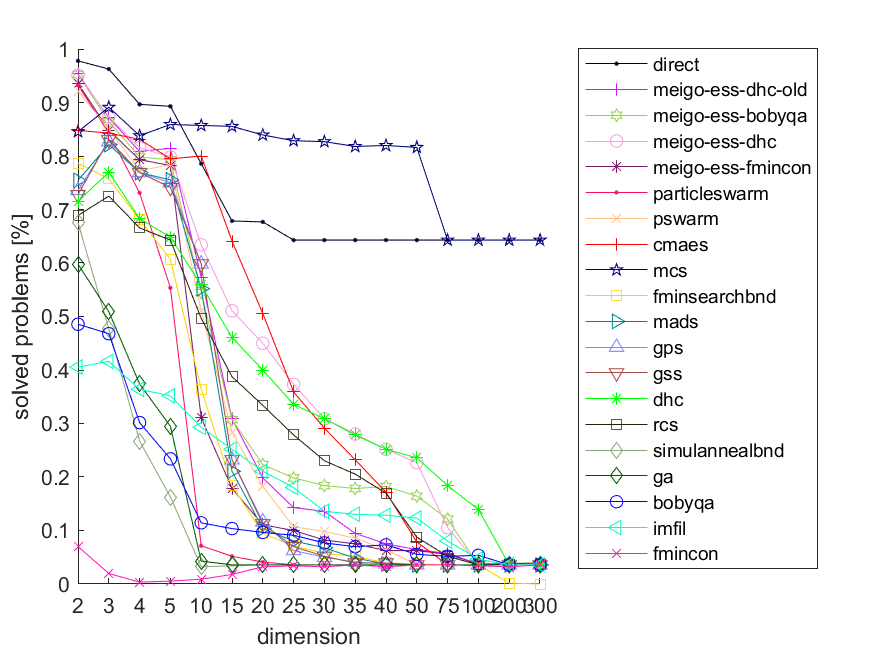
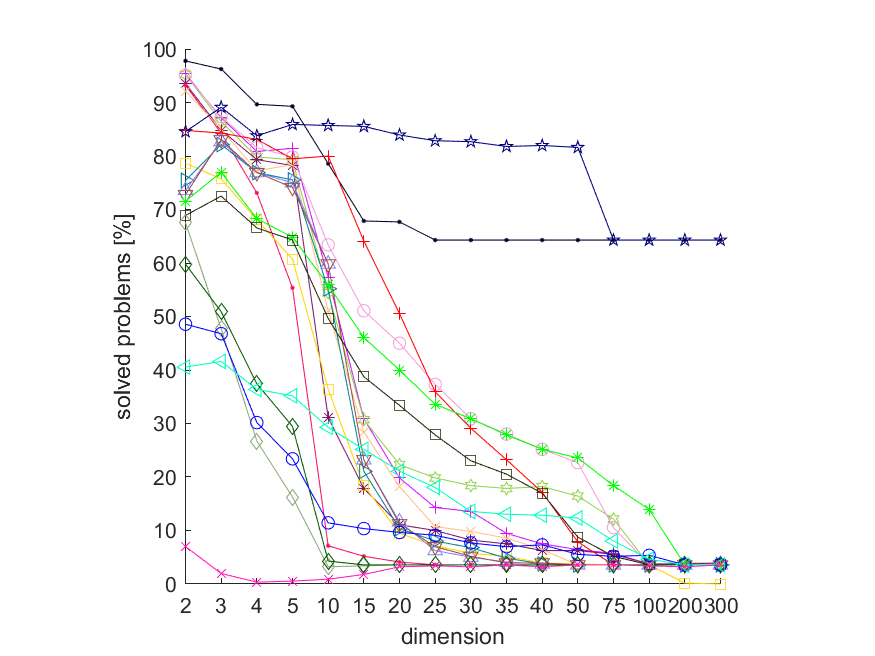
minor image edits

diff --git a/tests_testfunction/evaluateTestResults_noise.m b/tests_testfunction/evaluateTestResults_noise.m
@@ -126,6 +126,7 @@ legendon = 'off';
 % xlabel('function category');
 % ylabel('solved problems [%]');
 % ylim([0,1]);
+% pbaspect([1 1 1]);
 % saveas(fig, [pwd '/images/smooth-convex-unimodal.png']);
 
 nColumns = 5;
@@ -157,6 +158,7 @@ xticklabels({'all','smooth','nonsmooth','convex','nonconvex'});
 xlabel('function category');
 ylabel('solved problems [%]');
 ylim([0,100]);
+pbaspect([1 1 1]);
 saveas(fig, [pwd '/images/smooth-convex-noise.png']); 
 
 % and for all
@@ -190,6 +192,7 @@ xticklabels({'all','smooth','nonsmooth','convex','nonconvex'});
 xlabel('function category');
 ylabel('solved problems [%]');
 ylim([0,100]);
+pbaspect([1 1 1]);
 saveas(fig, [pwd '/images/smooth-convex-all-noise.png']); 
 
 % dims
@@ -219,6 +222,7 @@ xlabel('dimension');
 ylabel('solved problems [%]');
 ylim([0,100]);
 xlim([1,C.nDims]);
+pbaspect([1 1 1]);
 saveas(fig, [pwd '/images/dims-noise.png']); 
 
 % and for all
@@ -248,6 +252,7 @@ xlabel('dimension');
 ylabel('solved problems [%]');
 ylim([0,100]);
 xlim([1,C.nDims]);
+pbaspect([1 1 1]);
 saveas(fig, [pwd '/images/dims-all-noise.png']); 
 
 % time
@@ -276,6 +281,7 @@ xticklabels(C.arr_dims);
 xlabel('dimension');
 ylabel('avg. time [s]');
 xlim([1,C.nDims]);
+pbaspect([1 1 1]);
 saveas(fig, [pwd '/images/time-noise.png']);
 
 % fevals
@@ -305,5 +311,6 @@ xticklabels(C.arr_dims);
 xlabel('dim');
 ylabel('avg. function evaluations');
 xlim([1,C.nDims]);
+pbaspect([1 1 1]);
 saveas(fig, [pwd '/images/fevals-noise.png']);
 

diff --git a/tests_testfunction/evaluateTestResults_multistart.m b/tests_testfunction/evaluateTestResults_multistart.m
@@ -135,6 +135,7 @@ legendon = 'off';
 % xlabel('function category');
 % ylabel('solved problems [%]');
 % ylim([0,1]);
+% pbaspect([1 1 1]);
 % saveas(fig, [pwd '/images/smooth-convex-unimodal.png']);
 
 nColumns = 5;
@@ -166,6 +167,7 @@ xticklabels({'all','smooth','nonsmooth','convex','nonconvex'});
 xlabel('function category');
 ylabel('solved problems [%]');
 ylim([0,100]);
+pbaspect([1 1 1]);
 saveas(fig, [pwd '/images/smooth-convex-lg.png']); 
 
 % and for all
@@ -199,6 +201,7 @@ xticklabels({'all','smooth','nonsmooth','convex','nonconvex'});
 xlabel('function category');
 ylabel('solved problems [%]');
 ylim([0,100]);
+pbaspect([1 1 1]);
 saveas(fig, [pwd '/images/smooth-convex-all-lg.png']); 
 
 % dims
@@ -228,6 +231,7 @@ xlabel('dimension');
 ylabel('solved problems [%]');
 ylim([0,100]);
 xlim([1,C.nDims]);
+pbaspect([1 1 1]);
 saveas(fig, [pwd '/images/dims-lg.png']); 
 
 % and for all
@@ -257,6 +261,7 @@ xlabel('dimension');
 ylabel('solved problems [%]');
 ylim([0,100]);
 xlim([1,C.nDims]);
+pbaspect([1 1 1]);
 saveas(fig, [pwd '/images/dims-all-lg.png']); 
 
 % time
@@ -285,6 +290,7 @@ xticklabels(C.arr_dims);
 xlabel('dimension');
 ylabel('avg. time [s]');
 xlim([1,C.nDims]);
+pbaspect([1 1 1]);
 saveas(fig, [pwd '/images/time-lg.png']);
 
 % fevals
@@ -315,5 +321,6 @@ xticklabels(C.arr_dims);
 xlabel('dim');
 ylabel('avg. function evaluations');
 xlim([1,C.nDims]);
+pbaspect([1 1 1]);
 saveas(fig, [pwd '/images/fevals-lg.png']);
 

diff --git a/tests_testfunction/evaluateTestResults.m b/tests_testfunction/evaluateTestResults.m
@@ -131,6 +131,7 @@ legendon = 'off';
 % xlabel('function category');
 % ylabel('solved problems [%]');
 % ylim([0,1]);
+% pbaspect([1 1 1]);
 % saveas(fig, [pwd '/images/smooth-convex-unimodal.png']);
 
 nColumns = 5;
@@ -162,6 +163,7 @@ xticklabels({'all','smooth','nonsmooth','convex','nonconvex'});
 xlabel('function category');
 ylabel('solved problems [%]');
 ylim([0,100]);
+pbaspect([1 1 1]);
 saveas(fig, [pwd '/images/smooth-convex.png']); 
 
 % and for all
@@ -195,6 +197,7 @@ xticklabels({'all','smooth','nonsmooth','convex','nonconvex'});
 xlabel('function category');
 ylabel('solved problems [%]');
 ylim([0,100]);
+pbaspect([1 1 1]);
 saveas(fig, [pwd '/images/smooth-convex-all.png']); 
 
 % dims
@@ -224,6 +227,7 @@ xlabel('dimension');
 ylabel('solved problems [%]');
 ylim([0,100]);
 xlim([1,C.nDims]);
+pbaspect([1 1 1]);
 saveas(fig, [pwd '/images/dims.png']); 
 
 % and for all
@@ -253,6 +257,7 @@ xlabel('dimension');
 ylabel('solved problems [%]');
 ylim([0,100]);
 xlim([1,C.nDims]);
+pbaspect([1 1 1]);
 saveas(fig, [pwd '/images/dims-all.png']); 
 
 % time
@@ -281,6 +286,7 @@ xticklabels(C.arr_dims);
 xlabel('dimension');
 ylabel('avg. time [s]');
 xlim([1,C.nDims]);
+pbaspect([1 1 1]);
 saveas(fig, [pwd '/images/time.png']);
 
 % fevals
@@ -310,6 +316,7 @@ xticklabels(C.arr_dims);
 xlabel('dim');
 ylabel('avg. function evaluations');
 xlim([1,C.nDims]);
+pbaspect([1 1 1]);
 saveas(fig, [pwd '/images/fevals.png']);
 
 % legend

diff --git a/tests_sysbio/evaluateResults.m b/tests_sysbio/evaluateResults.m
@@ -57,6 +57,7 @@ for ip = 1:nProblems
     legend(legendon,'Location','northeastoutside');
     xlabel('ordered multistarts');
     ylabel('negative log-likelihood');
+    pbaspect([1 1 1]);
     saveas(fig, [pwd '/images/waterfall-' problem '.png']);
 end
 
@@ -84,6 +85,7 @@ xlabel('problem');
 ylabel('converged starts [%]');
 ylim([0,100]);
 legend(legendon,'Location','northeastoutside');
+pbaspect([1 1 1]);
 saveas(fig, [pwd '/images/convergedstarts.png']);
 
 fig = figure('name','funevalsperconvergedstart');
@@ -95,6 +97,7 @@ end
 hold off;
 xticklabels(cell_problems_official);
 legend(legendon,'Location','northeastoutside');
+pbaspect([1 1 1]);
 saveas(fig, [pwd '/images/funevalsperconvergedstart.png']);
 
 % bar(convergedStarts);
